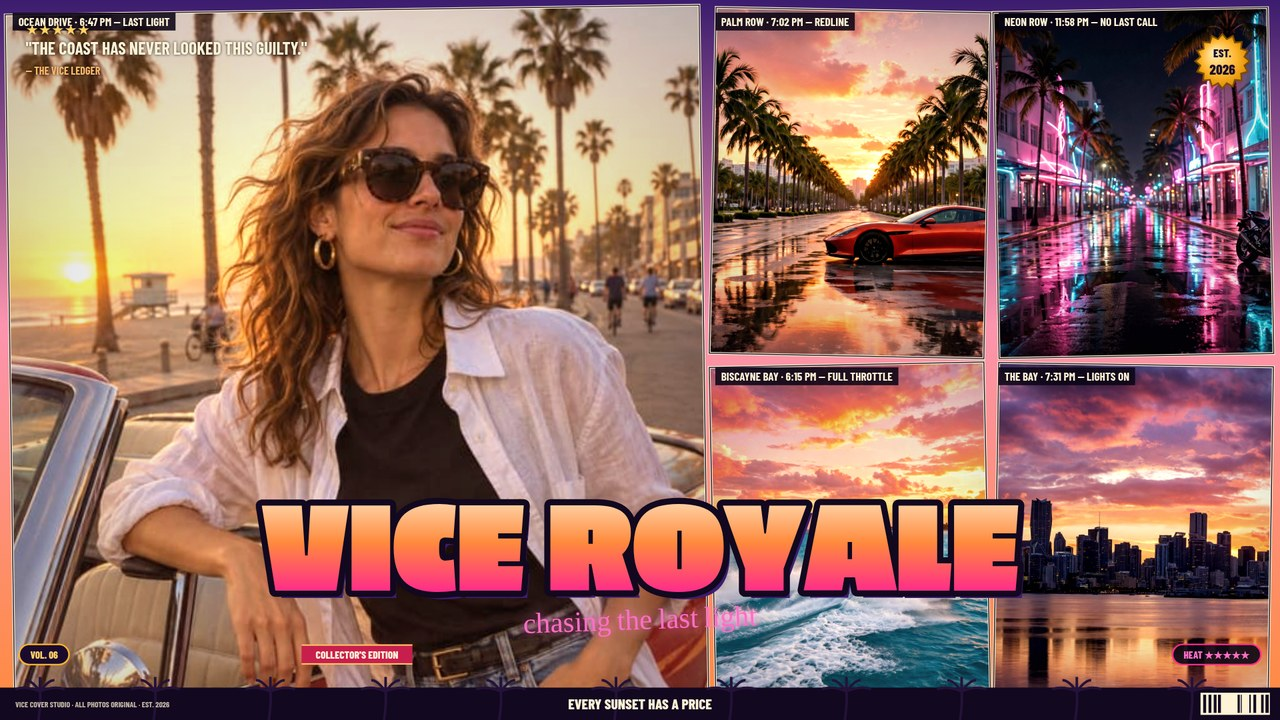
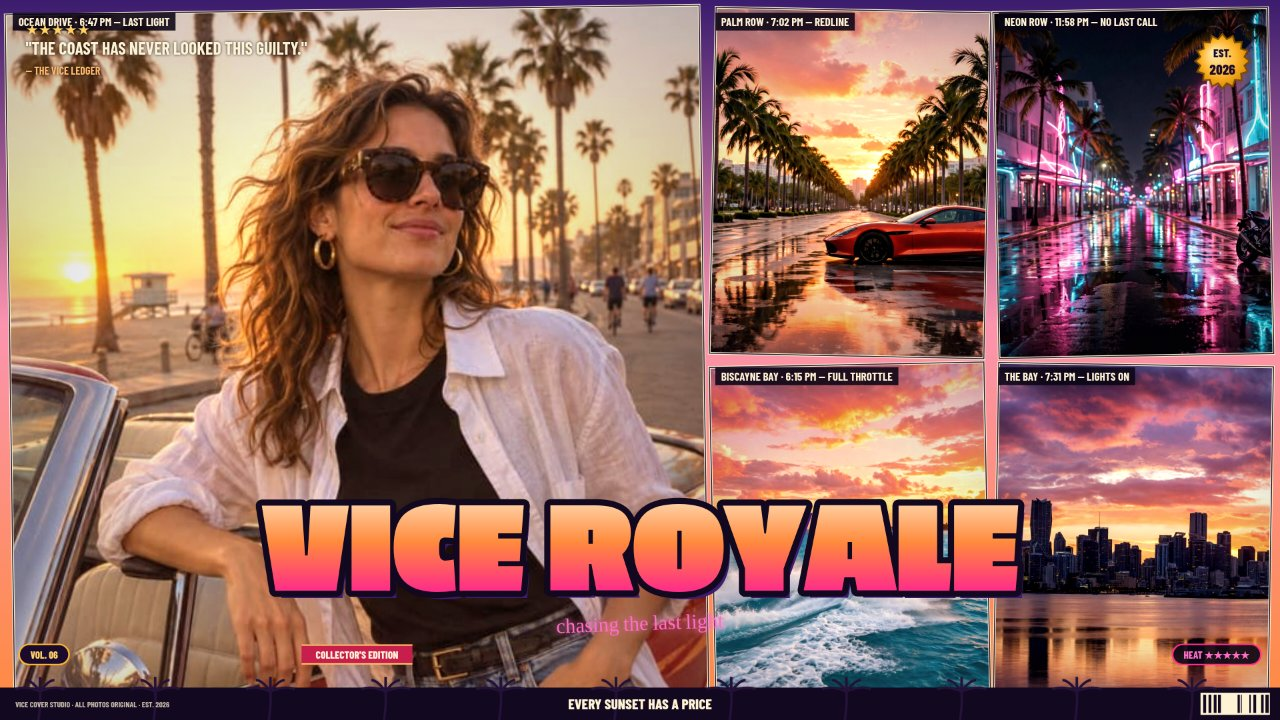
Fix pink script colliding with the title
drawScript placed the script at a fixed offset (baseline + 1.05x size)
with a 'middle' baseline, so a wide script's tilted end climbed into
the title's outline/shadow and the script sat on the panel boundary:
'run the night' and 'after dark, everything's for sale' were
half-hidden in the square/portrait covers.

Now the script is placed from measured ink: its top clears the
title's ink bottom (baseline + outline + drop shadow) by 2% of the
cover height, and its bottom clears the pills/ribbon band; the
ascenders/descenders are measured per glyph including the -2 deg
tilt (right end rises, left end drops), and the script shrinks
before it ever collides. Title, layouts, grades and furniture are
untouched. Verified in headless Chrome: ink gap 21px (square),
27px (portrait), 21px (landscape); a 105-case sweep over sizes x
titles x scripts holds a >=19px gap everywhere. Screenshots 1-4
re-taken from the real running app.

Changed region(s): [[0.4062, 0.825, 0.5938, 0.8861], [0.7812, 0.4889, 0.8125, 0.5194]]

diff --git a/app/src/cover.js b/app/src/cover.js
@@ -412,30 +412,73 @@ export function drawTitle(ctx, title, W, H) {
 }
 
 /** Pink brush-script line tucked under the title, tilted -2 degrees, fitted to the width.
-    Its centre sits just below the title's baseline, clear of the pills and ribbon below. */
+    Placed from measured ink, never from a fixed offset: the script's top clears the
+    title's ink bottom (baseline + outline + drop shadow) by a clear gap, and its
+    bottom clears the furniture band (pills / ribbon at 0.895H). The tilt lifts the
+    right end and drops the left, so the tallest ascender / deepest descender are
+    measured per glyph at their own x position — a wide script can no longer climb
+    into the title on its right end. If the band is too short, the script shrinks
+    before it ever collides; the title clearance is never sacrificed. */
 export function drawScript(ctx, script, titleInfo, W, H) {
   const text = (script || '').trim();
   if (!text) return;
+  const tilt = 0.035; // -2 degrees, as in the brief
+  const titleBaseline = titleInfo ? titleInfo.baseline : H * 0.82;
+  const titleSize = titleInfo ? titleInfo.size : H * 0.19;
+  // Title ink bottom: the glyphs sit on the baseline, the black outline reaches
+  // 4.5% of the title size past it and the purple drop shadow 5.5% — 6% covers both.
+  const titleBottom = titleBaseline + titleSize * 0.06;
+  const gap = H * 0.02;
+  const furnitureTop = H * 0.895;
+  const bottomMargin = H * 0.008;
+  const floor = Math.max(13, H * 0.02);
+
+  // Ink extents at a size: whole-string width, plus the per-glyph ascender /
+  // descender extremes including the tilt: rotate(-2°) lifts the RIGHT end and
+  // drops the LEFT, so the highest ink is an ascender on the right and the
+  // lowest ink a descender on the left. (Verified by pixel scan: the script's
+  // right third sits ~14 px higher than its left third at 1080 wide.)
+  const measure = (size) => {
+    ctx.font = `400 ${size}px "Yellowtail", cursive`;
+    const full = ctx.measureText(text);
+    let x = 0;
+    let topRel = 0;
+    let botRel = 0;
+    for (const ch of text) {
+      const gm = ctx.measureText(ch);
+      const cx = x + gm.width / 2 - full.width / 2;
+      topRel = Math.max(topRel, gm.actualBoundingBoxAscent + Math.max(0, cx) * tilt);
+      botRel = Math.max(botRel, gm.actualBoundingBoxDescent + Math.max(0, -cx) * tilt);
+      x += gm.width;
+    }
+    return { width: full.width, topRel, botRel };
+  };
+
+  // Fit the width first (as before), then the vertical band below the title.
   let size = Math.max(14, H * 0.04);
   ctx.font = `400 ${size}px "Yellowtail", cursive`;
   while (size > 13 && ctx.measureText(text).width > W * 0.72) {
     size -= 2;
     ctx.font = `400 ${size}px "Yellowtail", cursive`;
   }
+  let m = measure(size);
+  while (size > floor && titleBottom + gap + m.topRel + m.botRel + 4 > furnitureTop - bottomMargin) {
+    size = Math.max(floor, size * 0.92);
+    m = measure(size);
+  }
+  // Alphabetic baseline: the ink top lands exactly one gap below the title.
+  const baseline = titleBottom + gap + m.topRel;
   ctx.save();
-  const tw = ctx.measureText(text).width;
-  const cx = W * 0.5;
-  const cy = (titleInfo ? titleInfo.baseline : H * 0.82) + size * 1.05;
-  ctx.translate(cx, cy);
-  ctx.rotate(-0.035);
+  ctx.translate(W * 0.5, baseline);
+  ctx.rotate(-tilt);
   ctx.textAlign = 'center';
-  ctx.textBaseline = 'middle';
+  ctx.textBaseline = 'alphabetic';
   ctx.shadowColor = 'rgba(255, 110, 199, 0.9)';
   ctx.shadowBlur = size * 0.35;
   ctx.fillStyle = '#ff6ec7';
   ctx.fillText(text, 0, 0);
   ctx.restore();
-  return tw;
+  return m.width;
 }
 
 /** Gold starburst seal: EST. 2026. Drawn as a 16-point star, no image.
